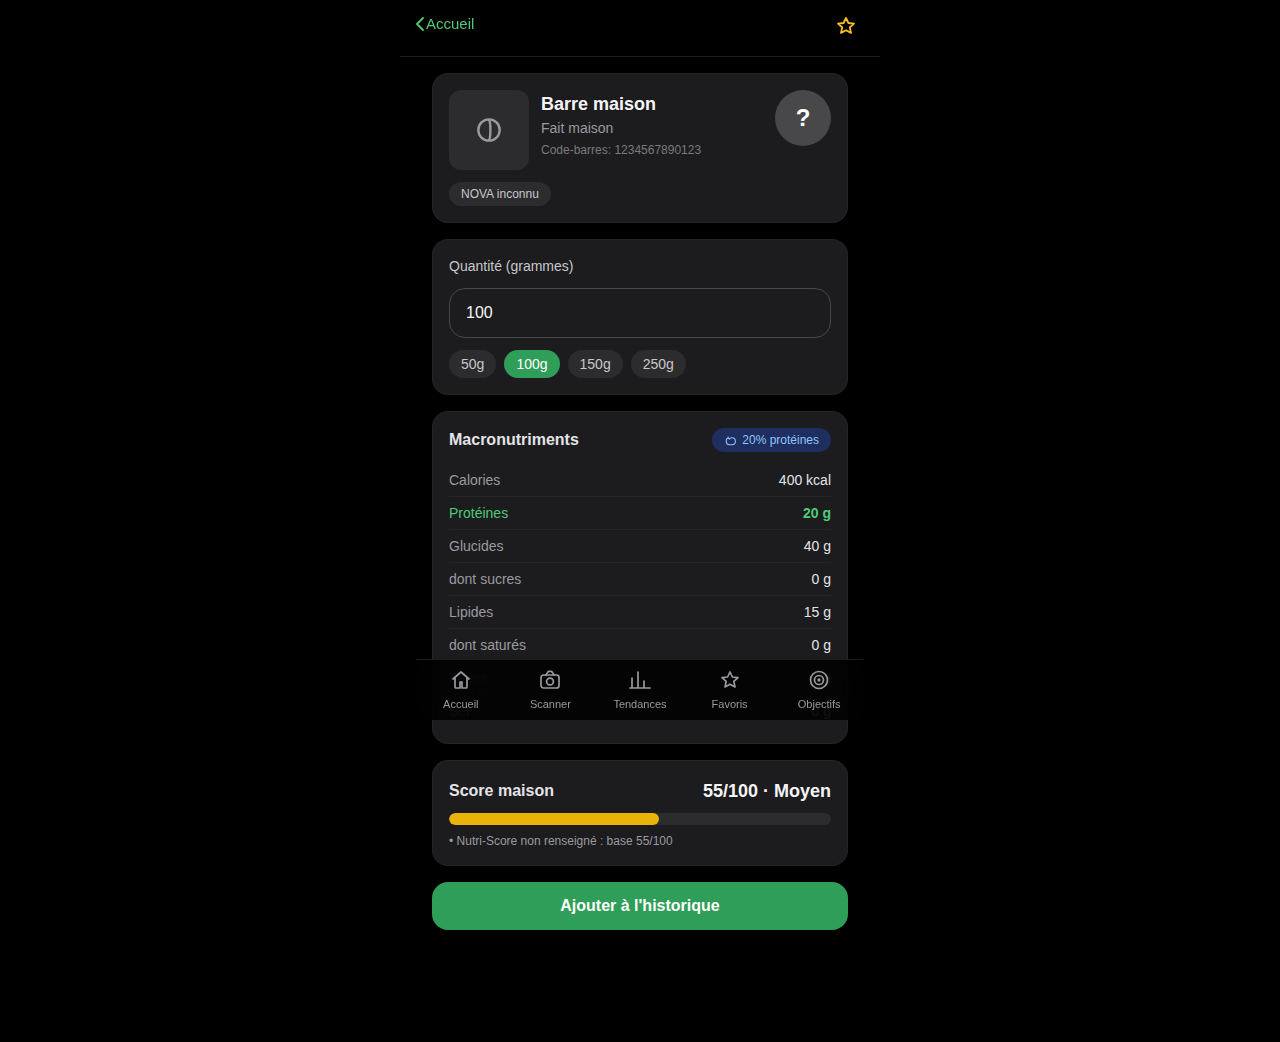
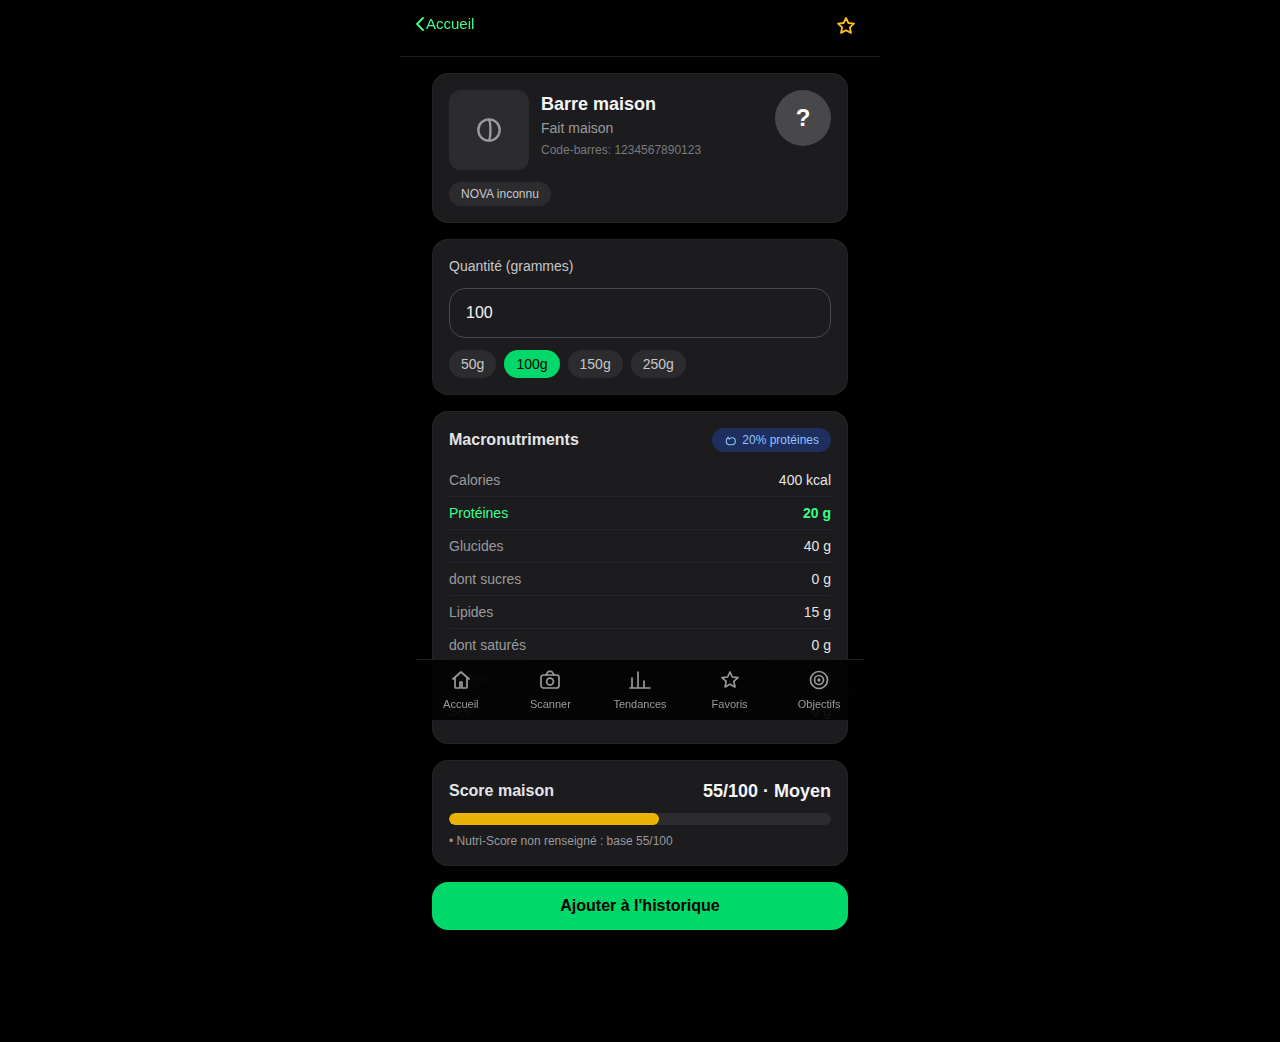
Switch the accent palette to a vivid neon green (#25)
The muted herb-green accent read flat on the true-black background.
Swap the Tailwind green scale for a genuinely electric neon green, and
carry matching neon tones through the macro/chart colors (cyan-blue
protein, amber carbs, hot-pink fat) and the quick-action tile tints,
since neon reads best on true black when it's actually saturated.

A neon-bright background needs dark text to stay legible (same
treatment as a real neon sign), so btn-primary, active pills, and the
Nutri-Score "A" badge switch from white to black text on the new
green. Also added a subtle colored glow (box-shadow / SVG
drop-shadow) on the primary CTA, the calorie ring's home card, and the
ring's active arc, so the brightness reads as intentional rather than
a contrast bug.

Verified: lint, typecheck, unit tests (115), full e2e suite (35 -
unaffected since only colors changed, no markup/text), and a manual
screenshot pass (home, foods, trends) confirming every green-on-dark
and dark-on-green pairing stays legible, and a production build.

Changed region(s): [[0.3125, 0.8292, 0.6875, 0.8906], [0.375, 0.3378, 0.4375, 0.3685]]

diff --git a/src/app/page.tsx b/src/app/page.tsx
@@ -20,10 +20,10 @@ import {
 } from "@/components/icons";
 
 const QUICK_ACTIONS = [
-  { href: "/describe", label: "Décrire un plat (IA)", Icon: IconSparkles, tint: "rgba(61,125,224,0.18)", color: "#6FA6FF" },
-  { href: "/foods", label: "Aliments courants", Icon: IconMeal, tint: "rgba(47,158,88,0.18)", color: "#4FCB77" },
-  { href: "/add/drink", label: "Ajouter une boisson", Icon: IconDrink, tint: "rgba(217,138,43,0.18)", color: "#F0B75B" },
-  { href: "/add", label: "Ajouter un produit", Icon: IconPlus, tint: "rgba(211,102,92,0.18)", color: "#FF8B7E" },
+  { href: "/describe", label: "Décrire un plat (IA)", Icon: IconSparkles, tint: "rgba(0,194,255,0.2)", color: "#00C2FF" },
+  { href: "/foods", label: "Aliments courants", Icon: IconMeal, tint: "rgba(57,255,138,0.2)", color: "#39FF8A" },
+  { href: "/add/drink", label: "Ajouter une boisson", Icon: IconDrink, tint: "rgba(255,179,0,0.2)", color: "#FFB300" },
+  { href: "/add", label: "Ajouter un produit", Icon: IconPlus, tint: "rgba(255,77,109,0.2)", color: "#FF4D6D" },
 ];
 
 const EXPLORE_LINKS = [
@@ -78,9 +78,9 @@ export default function HomePage() {
             <Link href="/goals" className="card glow-ring flex items-center gap-4">
               <CalorieRing value={totals.energyKcal} goal={goals.energyKcal} />
               <dl className="flex-1 space-y-2">
-                <MacroLegendRow color="#3D7DE0" label="Protéines" value={totals.proteins} goal={goals.proteins} />
-                <MacroLegendRow color="#D98A2B" label="Glucides" value={totals.carbohydrates} goal={goals.carbohydrates} />
-                <MacroLegendRow color="#D3665C" label="Lipides" value={totals.fat} goal={goals.fat} />
+                <MacroLegendRow color="#00C2FF" label="Protéines" value={totals.proteins} goal={goals.proteins} />
+                <MacroLegendRow color="#FFB300" label="Glucides" value={totals.carbohydrates} goal={goals.carbohydrates} />
+                <MacroLegendRow color="#FF4D6D" label="Lipides" value={totals.fat} goal={goals.fat} />
               </dl>
               <IconChevronRight className="chevron h-3.5 w-2 self-center" aria-hidden />
             </Link>
@@ -148,7 +148,7 @@ export default function HomePage() {
 function MacroLegendRow({ color, label, value, goal }: { color: string; label: string; value: number; goal: number }) {
   const percent = goal > 0 ? Math.min(100, Math.round((value / goal) * 100)) : 0;
   const over = goal > 0 && value > goal;
-  const barColor = over ? "#F0B75B" : color;
+  const barColor = over ? "#FF3B5C" : color;
 
   return (
     <div className="space-y-1">

diff --git a/src/app/globals.css b/src/app/globals.css
@@ -20,8 +20,10 @@ body {
     @apply rounded-2xl border border-slate-700/60 bg-slate-800 p-4 shadow-sm;
   }
 
+  /* Neon bg reads brightest with dark text, not white - same treatment
+     as a real neon sign. */
   .btn-primary {
-    @apply inline-flex items-center justify-center gap-2 rounded-2xl bg-green-600 px-4 py-3 font-semibold text-white transition active:scale-95 hover:bg-green-500 disabled:opacity-50 disabled:active:scale-100;
+    @apply inline-flex items-center justify-center gap-2 rounded-2xl bg-green-600 px-4 py-3 font-bold text-black transition active:scale-95 hover:bg-green-500 disabled:opacity-50 disabled:active:scale-100;
   }
 
   .btn-secondary {
@@ -102,7 +104,7 @@ body {
   }
 
   .pill-active {
-    @apply bg-green-600 text-white;
+    @apply bg-green-600 font-semibold text-black;
   }
 
   .pill-inactive {
@@ -127,11 +129,11 @@ body {
   }
 
   .glow-primary {
-    box-shadow: 0 6px 24px -6px rgba(63, 184, 104, 0.55);
+    box-shadow: 0 6px 28px -4px rgba(18, 232, 112, 0.65);
   }
 
   .glow-ring {
-    box-shadow: 0 0 0 1px rgba(255, 255, 255, 0.04), 0 10px 30px -12px rgba(63, 184, 104, 0.35);
+    box-shadow: 0 0 0 1px rgba(255, 255, 255, 0.04), 0 10px 34px -10px rgba(18, 232, 112, 0.45);
   }
 }
 

diff --git a/src/components/CalorieRing.tsx b/src/components/CalorieRing.tsx
@@ -12,6 +12,8 @@ export default function CalorieRing({ value, goal, size = 104 }: CalorieRingProp
   const offset = circumference * (1 - percent);
   const over = goal > 0 && value > goal;
 
+  const activeColor = over ? "#FFB300" : "#12E870";
+
   return (
     <div className="relative flex-shrink-0" style={{ width: size, height: size }}>
       <svg viewBox={`0 0 ${size} ${size}`} width={size} height={size} className="-rotate-90">
@@ -21,12 +23,15 @@ export default function CalorieRing({ value, goal, size = 104 }: CalorieRingProp
           cy={size / 2}
           r={radius}
           fill="none"
-          stroke={over ? "#F0B75B" : "#3DB868"}
+          stroke={activeColor}
           strokeWidth={strokeWidth}
           strokeLinecap="round"
           strokeDasharray={circumference}
           strokeDashoffset={offset}
-          style={{ transition: "stroke-dashoffset 0.5s ease" }}
+          style={{
+            transition: "stroke-dashoffset 0.5s ease",
+            filter: `drop-shadow(0 0 6px ${activeColor}99)`,
+          }}
         />
       </svg>
       <div className="absolute inset-0 flex flex-col items-center justify-center">

diff --git a/src/components/NutriScoreBadge.tsx b/src/components/NutriScoreBadge.tsx
@@ -1,12 +1,14 @@
 import type { NutriScoreGrade } from "@/lib/types/product";
 
+// The neon green ("a") reads brightest with dark text, like a real neon
+// sign; the other grades stay dark backgrounds with white text.
 const COLORS: Record<NutriScoreGrade, string> = {
-  a: "bg-green-600",
-  b: "bg-lime-600",
-  c: "bg-yellow-500",
-  d: "bg-orange-600",
-  e: "bg-red-600",
-  unknown: "bg-slate-600",
+  a: "bg-green-600 text-black",
+  b: "bg-lime-600 text-white",
+  c: "bg-yellow-500 text-black",
+  d: "bg-orange-600 text-white",
+  e: "bg-red-600 text-white",
+  unknown: "bg-slate-600 text-white",
 };
 
 export default function NutriScoreBadge({ grade, size = "md" }: { grade: NutriScoreGrade; size?: "sm" | "md" | "lg" }) {
@@ -15,7 +17,7 @@ export default function NutriScoreBadge({ grade, size = "md" }: { grade: NutriSc
 
   return (
     <div
-      className={`flex ${dims} items-center justify-center rounded-full font-bold text-white ${COLORS[grade]}`}
+      className={`flex ${dims} items-center justify-center rounded-full font-bold ${COLORS[grade]}`}
       title={`Nutri-Score ${label}`}
       aria-label={`Nutri-Score ${label}`}
     >

diff --git a/src/components/TrendsChart.tsx b/src/components/TrendsChart.tsx
@@ -28,7 +28,7 @@ export default function TrendsChart({ days, goalKcal }: TrendsChartProps) {
         aria-label="Calories consommées par jour"
       >
         {goalKcal > 0 && (
-          <line x1={0} x2={chartWidth} y1={goalY} y2={goalY} stroke="#f0b75b" strokeDasharray="4 3" strokeWidth={1} />
+          <line x1={0} x2={chartWidth} y1={goalY} y2={goalY} stroke="#FFB300" strokeDasharray="4 3" strokeWidth={1} />
         )}
         {days.map((day, i) => {
           const barHeight = (day.macros.energyKcal / maxValue) * PLOT_HEIGHT;
@@ -41,7 +41,7 @@ export default function TrendsChart({ days, goalKcal }: TrendsChartProps) {
                 width={barWidth}
                 height={day.macros.energyKcal > 0 ? Math.max(barHeight, 2) : 0}
                 rx={2}
-                fill={over ? "#f0b75b" : "#3DB868"}
+                fill={over ? "#FFB300" : "#12E870"}
               />
               <text
                 x={i * slotWidth + slotWidth / 2}

diff --git a/src/components/QuantityInput.tsx b/src/components/QuantityInput.tsx
@@ -66,7 +66,7 @@ export default function QuantityInput({
               type="button"
               onClick={() => handleUnitCountChange(preset)}
               className={`rounded-full px-3 py-1 text-sm ${
-                unitCount === preset ? "bg-green-600 text-white" : "bg-slate-700 text-slate-300"
+                unitCount === preset ? "bg-green-600 text-black" : "bg-slate-700 text-slate-300"
               }`}
             >
               {preset} {unitLabel}
@@ -108,7 +108,7 @@ export default function QuantityInput({
             type="button"
             onClick={() => onChange(preset)}
             className={`rounded-full px-3 py-1 text-sm ${
-              value === preset ? "bg-green-600 text-white" : "bg-slate-700 text-slate-300"
+              value === preset ? "bg-green-600 text-black" : "bg-slate-700 text-slate-300"
             }`}
           >
             {preset}g

diff --git a/tailwind.config.ts b/tailwind.config.ts
@@ -27,13 +27,14 @@ const config: Config = {
           900: "#131314",
           950: "#000000",
         },
-        // Herb green accent, standing in for the default Tailwind green.
+        // Neon accent, standing in for the default Tailwind green - reads
+        // as electric on the true-black background instead of muted.
         green: {
-          100: "#DFF5E6",
-          400: "#4FCB77",
-          500: "#3DB868",
-          600: "#2F9E58",
-          700: "#23823F",
+          100: "#D8FFE9",
+          400: "#39FF8A",
+          500: "#12E870",
+          600: "#00D96A",
+          700: "#00A855",
         },
       },
     },

diff --git a/src/app/describe/page.tsx b/src/app/describe/page.tsx
@@ -240,7 +240,7 @@ export default function DescribePage() {
                       type="button"
                       onClick={() => handlePickModel(m)}
                       className={`rounded-full px-3 py-1 text-xs ${
-                        model === m ? "bg-green-600 text-white" : "bg-slate-700 text-slate-300"
+                        model === m ? "bg-green-600 text-black" : "bg-slate-700 text-slate-300"
                       }`}
                     >
                       {m}

diff --git a/src/app/add/drink/page.tsx b/src/app/add/drink/page.tsx
@@ -125,7 +125,7 @@ export default function AddDrinkPage() {
                 type="button"
                 onClick={() => setVolumeMl(preset.ml)}
                 className={`rounded-full px-3 py-1 text-sm ${
-                  volumeMl === preset.ml ? "bg-green-600 text-white" : "bg-slate-700 text-slate-300"
+                  volumeMl === preset.ml ? "bg-green-600 text-black" : "bg-slate-700 text-slate-300"
                 }`}
               >
                 {preset.label}
